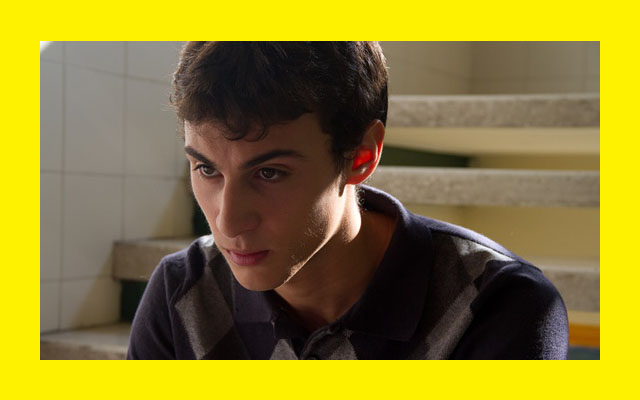
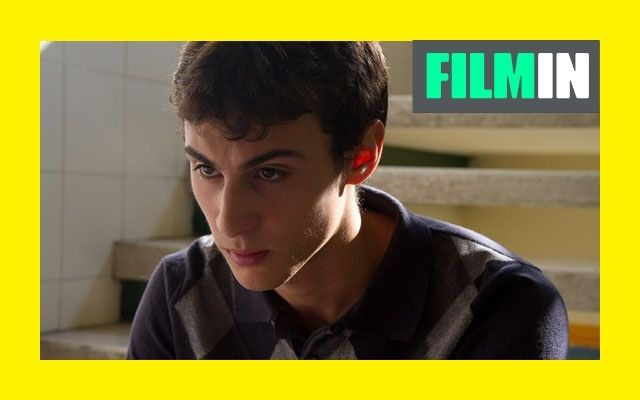
Varios cambios en index, etc

diff --git a/index.html b/index.html
@@ -46,30 +46,58 @@
         </div>
     </nav>
     <!-- Masthead-->
-    <header class="masthead">
-    </header>
-
-    <div>
-        <div class="container-fluid p-0">
-            <a class="portfolio-box" href="assets/img/inicio/MateoRubistein_Inicio.jpg">
-                <div class="col-sm-12 col-md-12 col-lg-12 mood mood--big" style="background: url(assets/img/inicio/MateoRubistein_Inicio.jpg) 50% / cover no-repeat">
+    <header class="masthead"></header>
+            
+    <!-- Foto de portada-->
+      
+            <a class="portfolio-box" href="assets/img/inicio/MateoRubistein_Inicioprueba.jpg">
+                <div class="col-sm-12 col-md-12 col-lg-12 mood mood--big" style="background: url(assets/img/inicio/MateoRubistein_Inicioprueba.jpg) 50% / cover no-repeat">
                     </br>
 
                 </div>
             </a>
+
+
             <!-- Texto-->
-             <div class=" col-sm-12 col-md-12 col-lg-12 d-flex justify-content-center">
+            <div class=" col-sm-12 col-md-12 col-lg-12 d-flex justify-content-center">
                 
-              <h1>Página oficial del actor <em>Mateo Rubistein</em></h1>
-                 
-              </div>
+              <h1>Página oficial de <em>Mateo Rubistein</em></h1>
+              
+            </div>
 
-            
+            <div class="col-sm-12 col-md-12 col-lg-6 offset-lg-3 justify-content-center">
+                       
+             Os doy la bienvenida a esta nueva web, que se actualizará cada semana. Para mí es un placer 
+             contar con este espacio donde compartir mi trabajo y contaros las últimas novedades. 
+             Un abrazo, </br>
+             <em>MR</em>
+
+            </div></br>
+
+
+            <!-- Lo ultimo-->
+            <div class=" col-sm-12 col-lg-4 offset-lg-4 offset-sm-0 col-md-6 offset-md-3 d-flex justify-content-center">
+            <h2>Lo último: #VidasEnterradas</h2>
+               
+            </div>
+             
+            <div class="col-sm-12 col-lg-4 offset-lg-4 offset-sm-0 col-md-6 offset-md-3 justify-content-center">
+               
+            <img class="img-fluid" src="assets/img/inicio/logopais.png" alt="A picture of the actor Mateo Rubistein 1" width="200px" /> 
+            <img class="img-fluid" src="assets/img/inicio/logoeupress.jpg" alt="A picture of the actor Mateo Rubistein 1" width="200px" />
+                       
+            </div>
+            </br>
+
             <!-- Video-->
-           
-
+            <div class=" col-sm-12 col-lg-4 offset-lg-4 offset-sm-0 col-md-6 offset-md-3 d-flex justify-content-center">
+                  <span>
+            <h2>Reel TV/ Audiovisual</h2>
+                 </span>
+              </div>
+    
             <div class="row no-gutters">
-                   <div class="col-sm-6 offset-sm-2  col-md-8 offset-md-2 col-lg-6 offset-lg-3 d-flex">
+                   <div class="col-sm-6  offset-sm-2 col-md-8 offset-md-2 col-lg-4 offset-lg-4 d-flex">
                      <iframe  width="100%" height="315" src="https://www.youtube.com/embed/m32dhGXetaM" frameborder="0"
                              allow="accelerometer; autoplay; encrypted-media; gyroscope; picture-in-picture" allowfullscreen>
                      </iframe>
@@ -79,22 +107,12 @@
             </div>
             <br/>
 
-               <div class="row no-gutters">
-                   <div class="col-sm-6 offset-sm-2  col-md-8 offset-md-2 col-lg-6 offset-lg-3 d-flex">
-                     <iframe width="100%" height="315" src="https://www.youtube.com/embed/wL4H1_mPHIA" frameborder="0"
-                             allow="accelerometer; autoplay; encrypted-media; gyroscope; picture-in-picture" allowfullscreen>
-                     </iframe>
-                   </div>
-            </div>
-            <br/>
+       
 
-        </div>
-    </div>
-
-       <div class=" col-sm-12 col-lg-4 offset-lg-4 offset-sm-0 col-md-6 offset-md-3 d-flex justify-content-center">
+   <div class=" col-sm-12 col-lg-4 offset-lg-4 offset-sm-0 col-md-6 offset-md-3 d-flex justify-content-center">
         <span>
                      <a href="spanish/video.html">
-                           <h3> Ver más vídeos</h3>
+                           <h3> Ver más</h3>
                         </a>
         </span>
     </div>
@@ -120,18 +138,18 @@
 
                     <!-- Noticia 1-->
 
-                    <div class="col-4 float-left">
+                    <div class="col-lg-4 col-sm-8 float-left">
                         <img class="img-fluid" src="assets/img/miniaturas/MateoRubistein_NoticiaVSE.jpg" alt="Foto Noticia1">
-                        "Vidas Enterradas" <strong>vuelve en gira nacional en 2021</strong> en más de 20 ciudades del país.
+                        "Vidas Enterradas", <strong>candidata de la XXIII edición de los Premios Max de las Artes Escénicas.</strong>
                         <br />
                         <a href="https://elpais.com/babelia/2020-11-06/las-fosas-que-nos-unen.html" target="_blank">
-                            Noticia en <em>El País</em>
+                            Reseña en <em>El País</em>
                         </a>
                     </div>
 
                     <!-- Noticia 2-->
 
-                    <div class="col-4 float-left">
+                    <div class="col-lg-4 col-sm-8 float-left">
                         <img class="img-fluid" src="assets/img/miniaturas/MateoRubistein_NoticiaHijo.jpg" alt="Foto Noticia2">
                         "El Hijo" <strong>ya disponible para su visionado en la plataforma Filmin</strong>.
                         <br />
@@ -142,12 +160,12 @@
 
                     <!-- Noticia 3-->
 
-                    <div class="col-4 float-left">
+                    <div class="col-lg-4 col-sm-8 float-left">
                         <img class="img-fluid" src="assets//img/miniaturas/MateoRubistein_NoticiaMax.jpg" alt="Foto Noticia3">
-                        "Vidas Enterradas", <strong>candidata de la XXIII edición de los Premios Max de las Artes Escénicas</strong>.
+                        Las series en las que participa <em>Mateo Rubistein</em> ya pueden verse en <strong>Amazon Prime Video</strong>.
                         <br />
-                        <a href="https://www.heraldo.es/noticias/ocio-y-cultura/2020/03/06/teatro-del-templeatesora-una-cuarta-candidatura-a-los-max-por-vidas-enterradas-1362515.html" target="_blank">
-                            Nota de prensa
+                        <a href="spanish/noticias.html" target="_blank">
+                            Ver noticias
                         </a>
                     </div>
                 </div>
@@ -158,7 +176,7 @@
 
                     <!-- Noticia 4-->
 
-                    <div class="col-4 float-left">
+                    <div class="col-lg-4 col-sm-8 float-left">
 
                         <img class="img-fluid" src="assets/img/miniaturas/MateoRubistein_NoticiaBarro.JPG" alt="Foto Noticia4">
                         <strong>"Barro" triunfa en Teatros del Canal.</strong> La última obra de <em>La Joven Compañía</em> nos acerca a Europa.
@@ -170,7 +188,7 @@
 
                     <!-- Noticia 5-->
 
-                    <div class="col-4 float-left">
+                    <div class="col-lg-4 col-sm-8 float-left">
                         <img class="img-fluid" src="assets/img/miniaturas/MateoRubistein_NoticiaCDN.jpg" alt="Foto Noticia5">
                         <strong>Mateo Rubistein, actuando con los jóvenes y por la diversidad</strong> en el Centro Dramático Nacional.
                         <br />
@@ -181,7 +199,7 @@
 
                     <!-- Noticia 6-->
 
-                    <div class="col-4 float-left">
+                    <div class="col-lg-4 col-sm-8  float-left">
                         <img class="img-fluid" src="assets/img/miniaturas/MateoRubistein_NoticiaFund.jpg" alt="Foto Noticia6">
                         <strong>La Joven Compañía</strong>, más viva que nunca.
                         <br />

diff --git a/css/styles.css b/css/styles.css
@@ -10878,3 +10878,8 @@ header.masthead {
         margin-top: 0;
         line-height: 0
     }
+#itemsredsocial{
+--item-size: 42px;
+--item-margin: 0 7px 0 0;
+--item-display: inline-block;
+}
